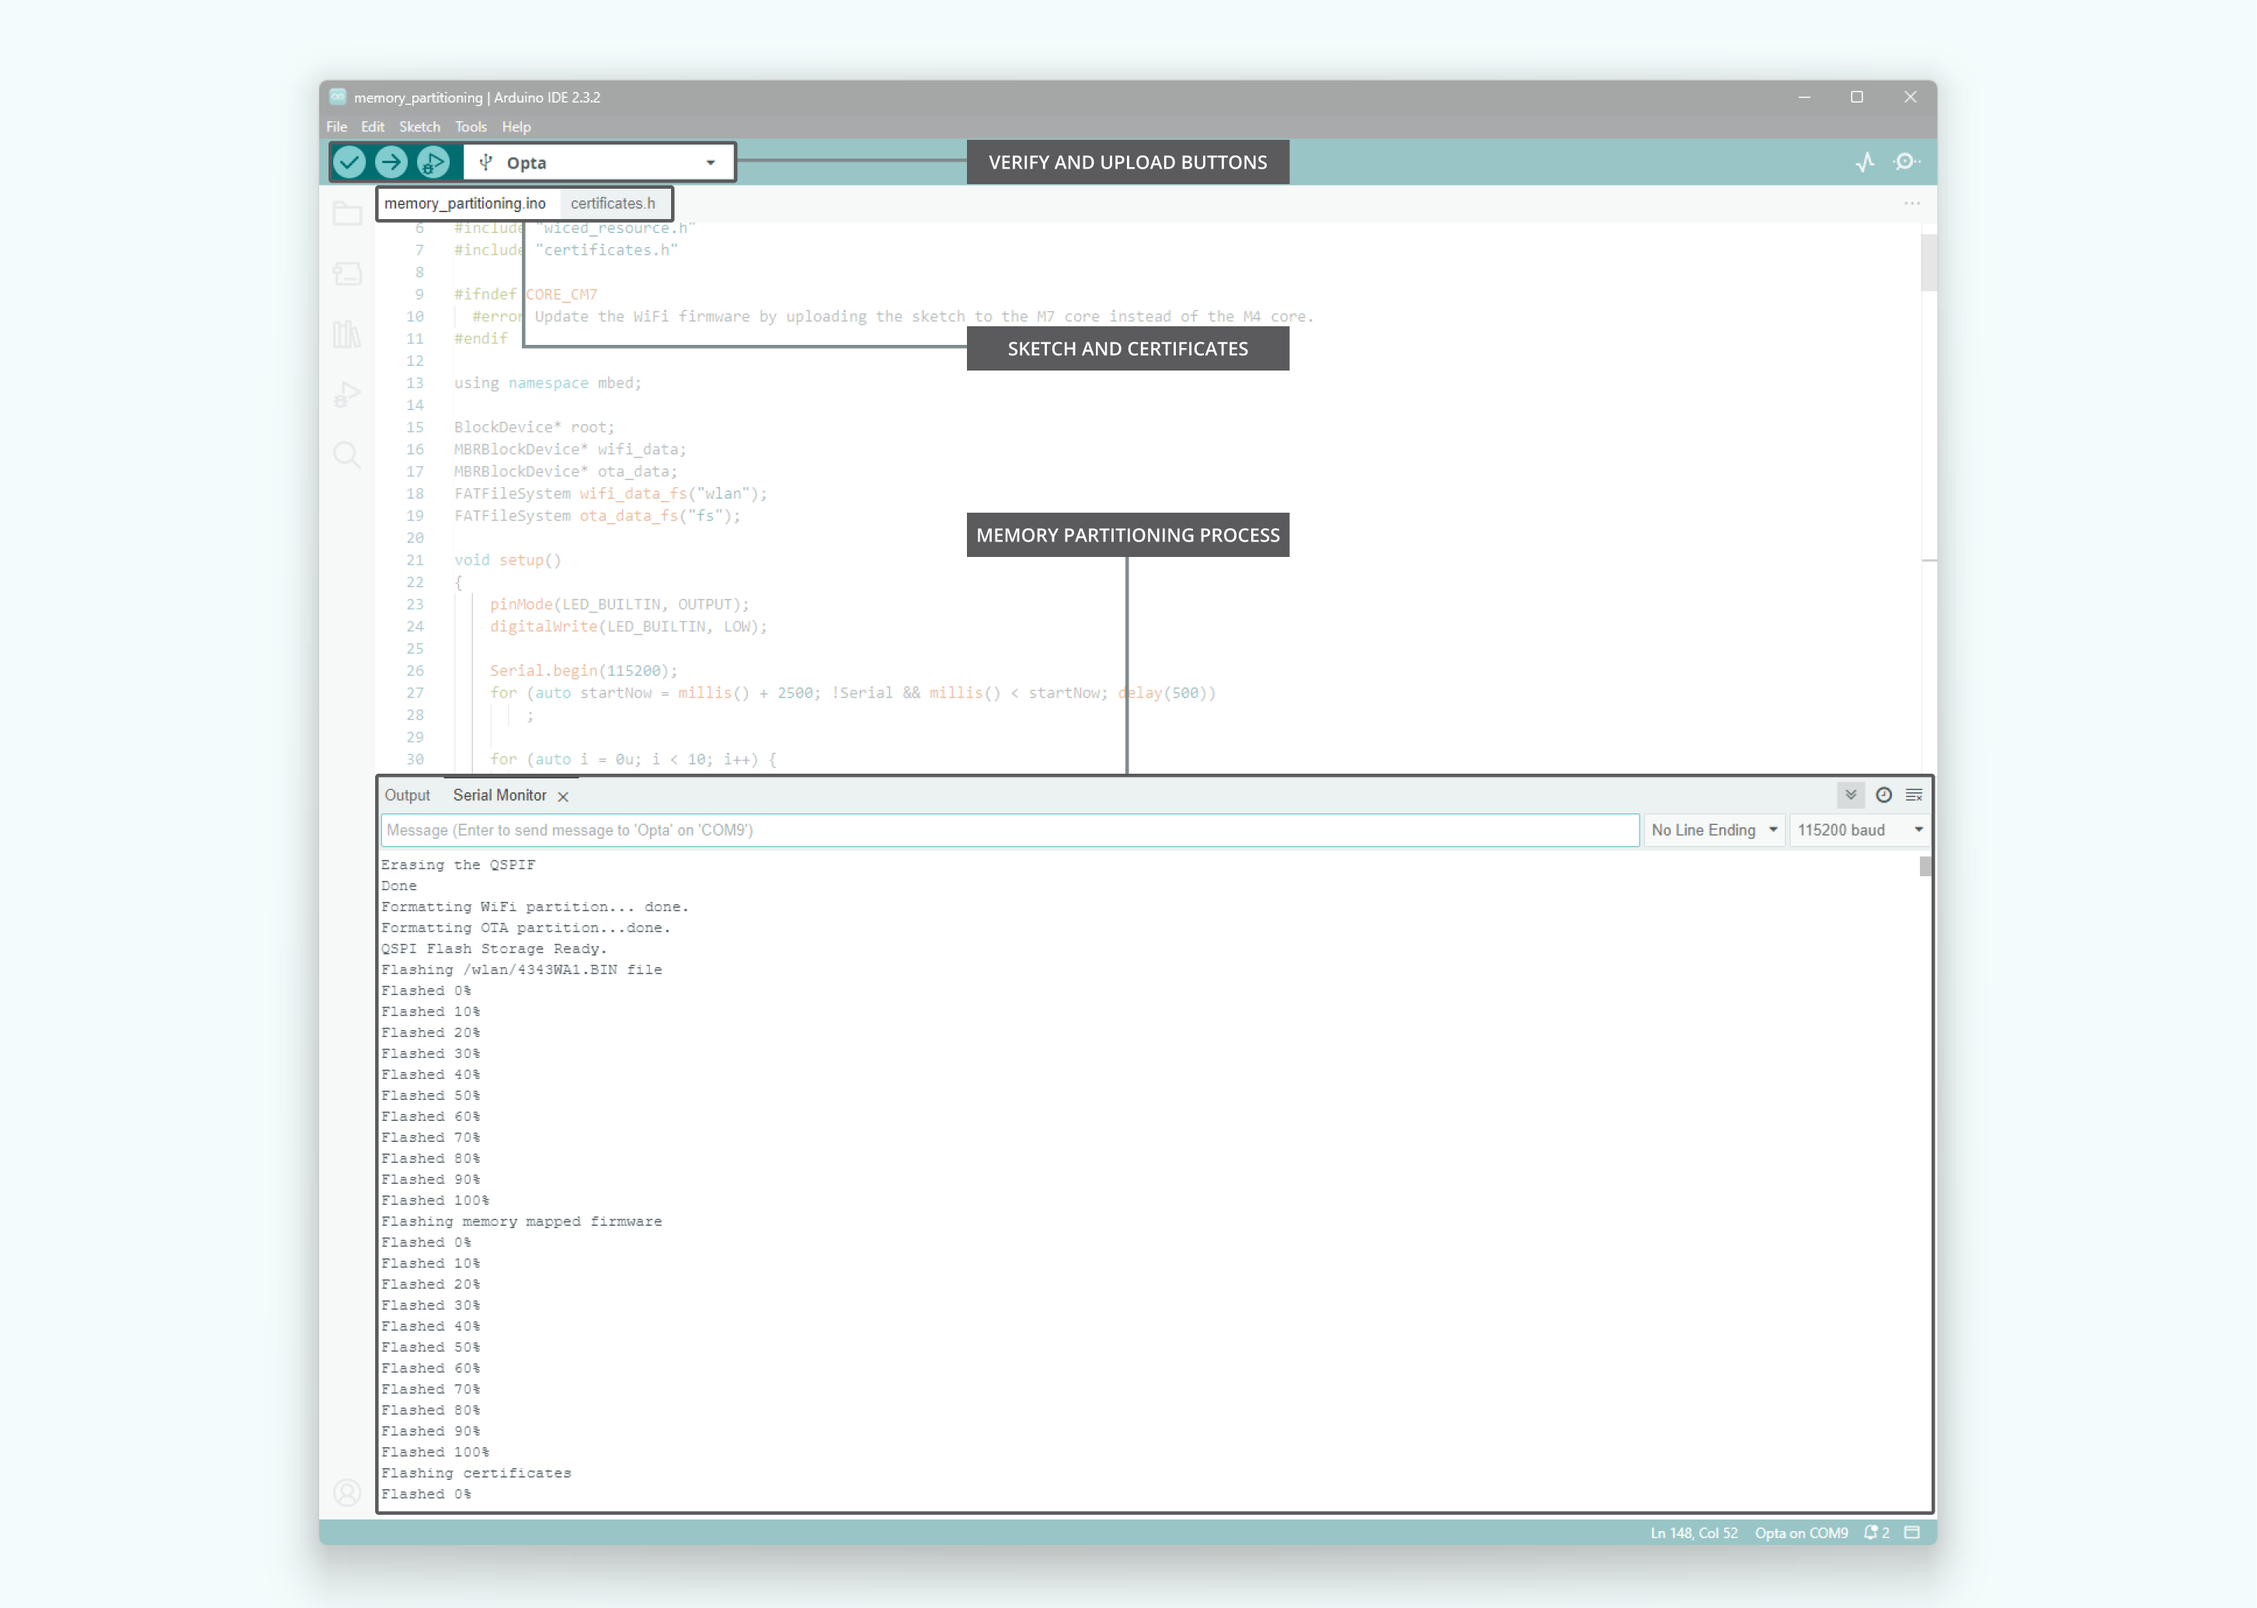
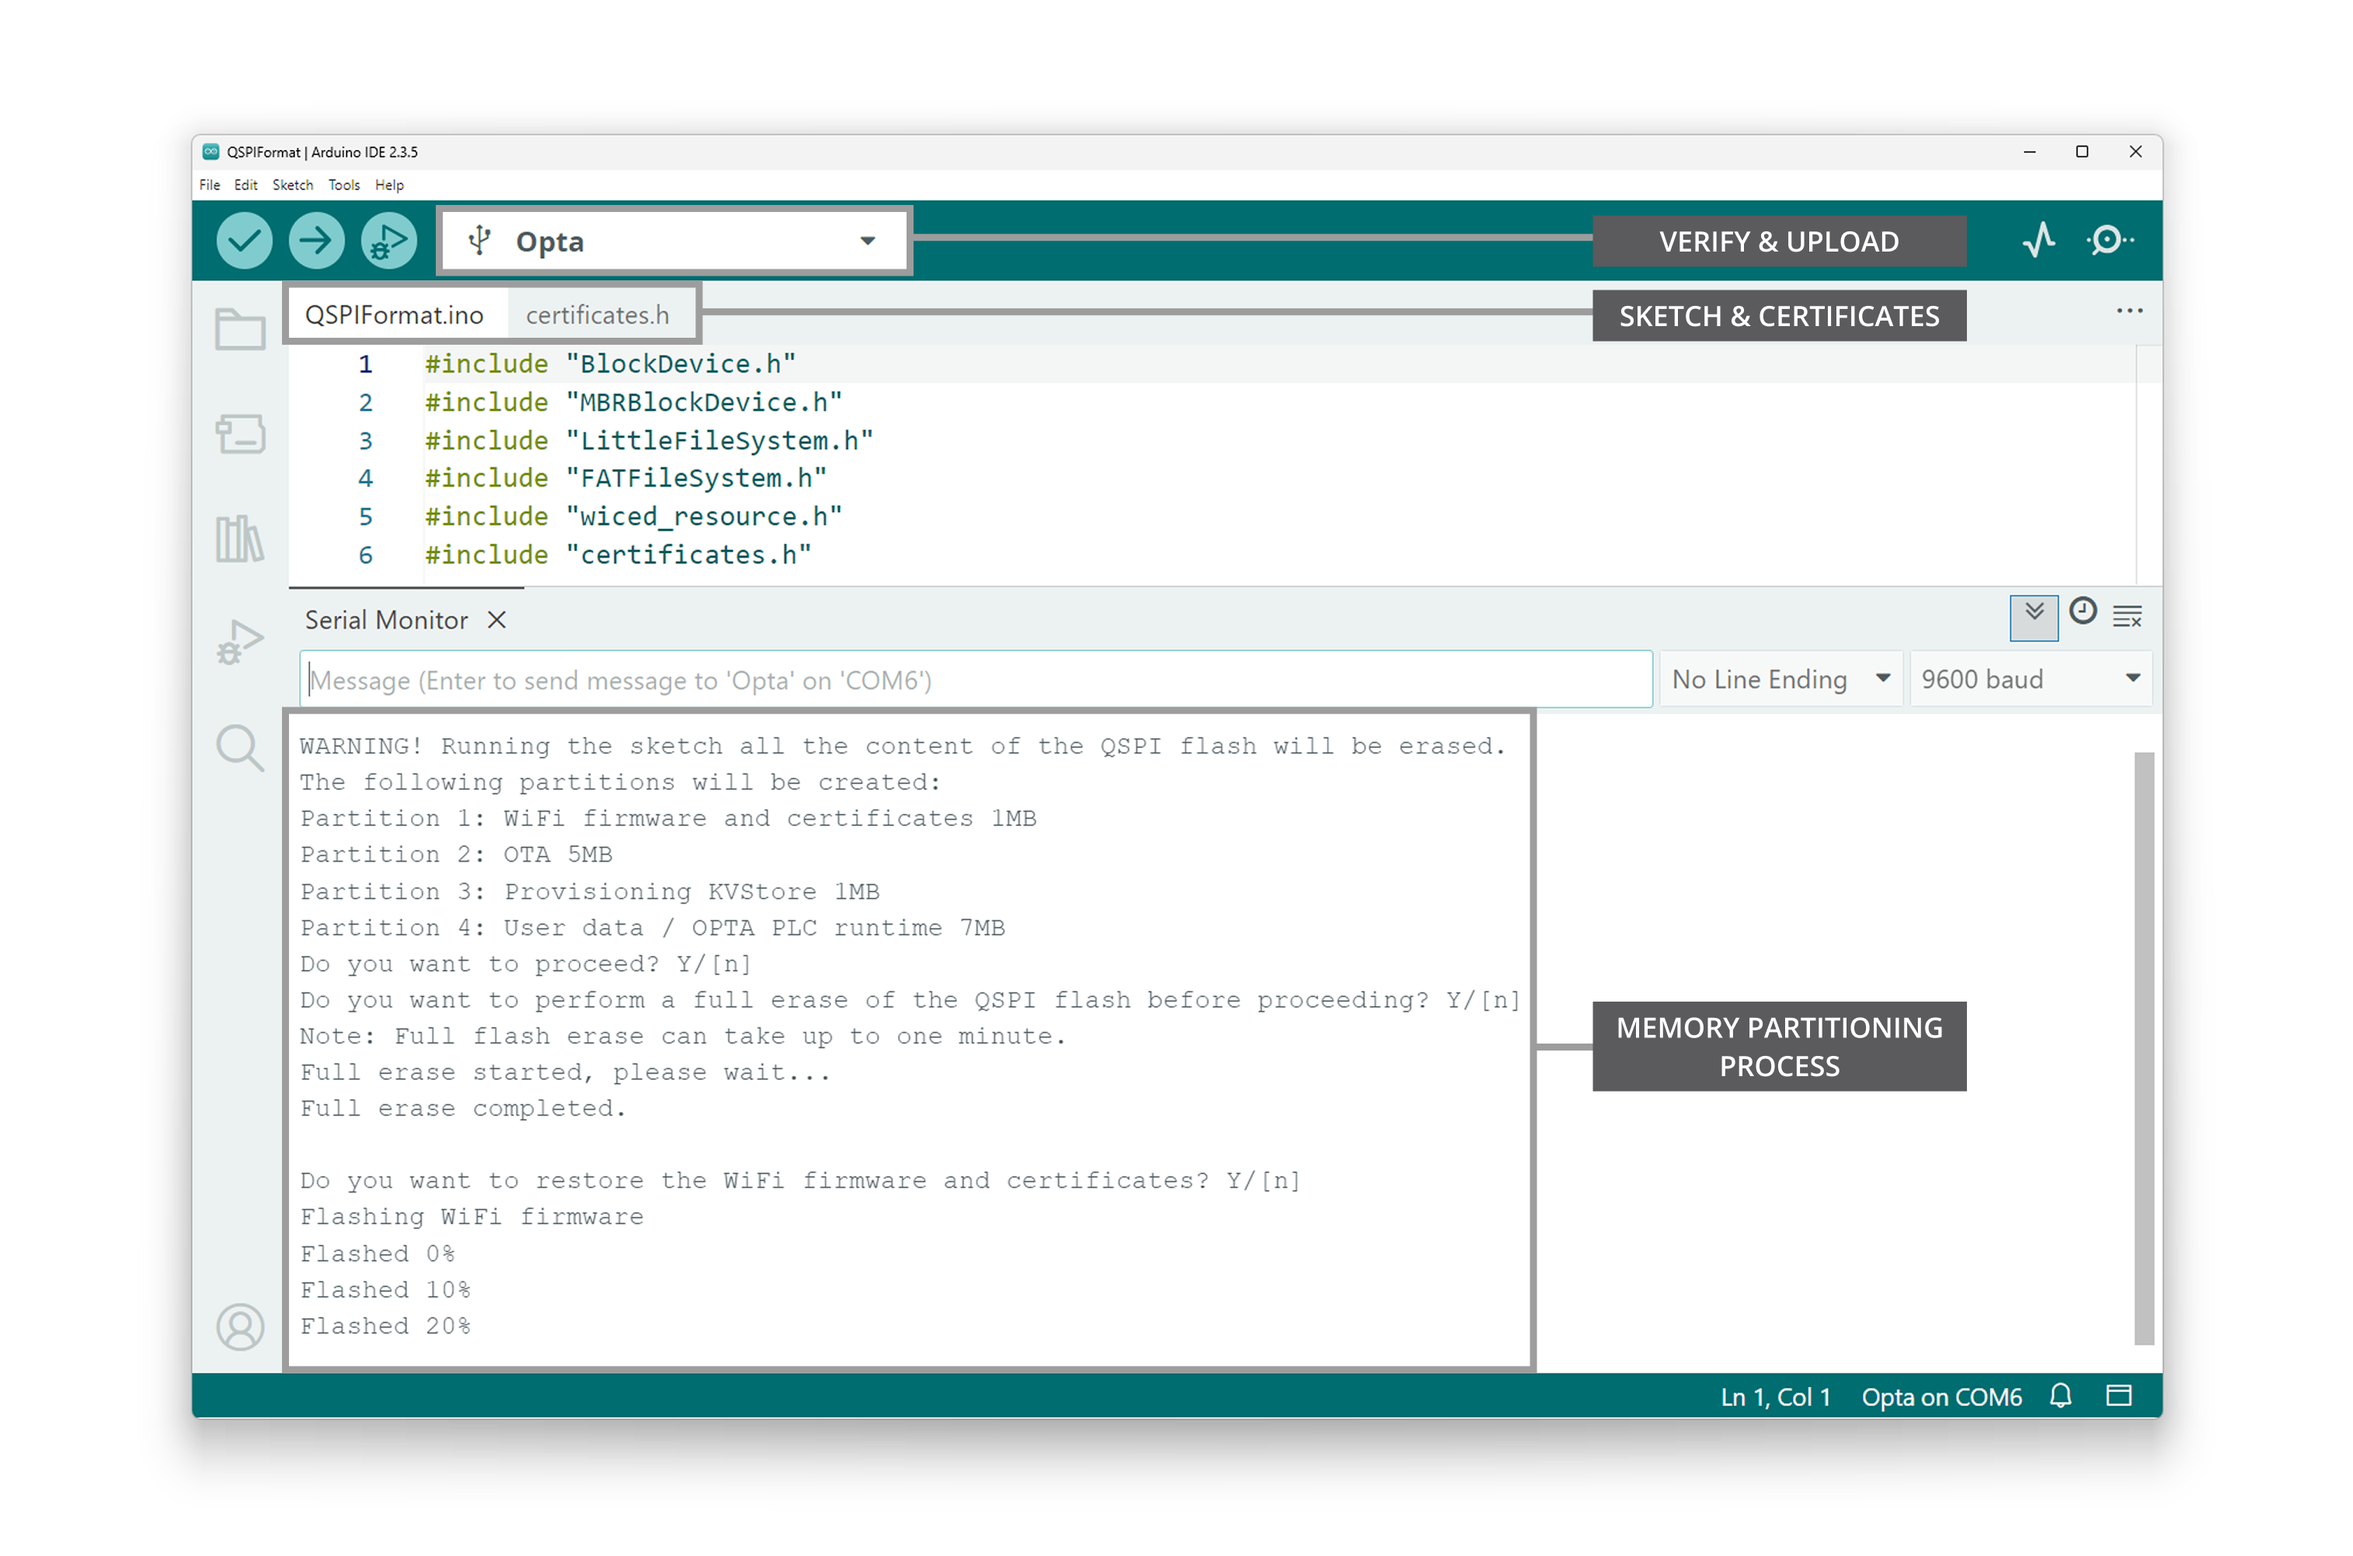
Memory partitioning tutorial documentation update

diff --git a/content/hardware/07.opta/opta-family/opta/tutorials/08.memory-partitioning/content.md b/content/hardware/07.opta/opta-family/opta/tutorials/08.memory-partitioning/content.md
@@ -318,35 +318,42 @@ void loop() {
 }
 ```
 
-***If you encounter an error while in the compilation process, __please remember to have both script and certificate files in the same folder__. The certificate file is crucial for the memory partitioning process. The complete sketch and the certificate files can be downloaded [__here__](assets/memory_partitioning.zip).***
-
 The sketch shown above performs four main tasks:
 
 1. **Initialize and erase the QSPI Flash memory**: The sketch initializes the QSPI Flash memory of the Opta™ and erases its content to prepare the memory for new firmware and data. One of the built-in LEDs of the device is used to indicate the progress of the memory-erasing process.
 
 2. **Create partitions and format them in the QSPI Flash memory**: The sketch creates four partitions in the QSPI Flash memory:
-- Partition 1: WiFi firmware and certificates (1MB)
-- Partition 2: OTA (5MB)
+- Partition 1: Wi-Fi firmware and certificates (1MB)
+- Partition 2: OTA (Over-The-Air) (5MB)
 - Partition 3: Provisioning KVStore (1MB)
 - Partition 4: User data / OPTA PLC runtime (7MB)
 
 3. **Write Wi-Fi firmware and certificate data**: The sketch writes the Wi-Fi firmware and certificate data to the appropriate partitions in the QSPI Flash memory and flashes the memory-mapped Wi-Fi firmware and certificates.
 
-4. **Format the user data partition:** The sketch prompts you to choose between **LittleFS** or **FatFS** for formatting the user data partition. When planning to use the Opta™ with the PLC IDE, you should select **"n" (No)** when prompted with user data partition format to use. This will use *FatFS* instead, which is required for proper compatibility with the PLC runtime.
+4. **Format the user data partition:** The sketch prompts you to choose between **LittleFS** or **FatFS** for formatting the user data partition. When using the Opta™ with the PLC IDE, you should select **`n` (No)** when prompted to choose user data partition format. This will use **FatFS** instead, which is required for proper compatibility with the PLC runtime.
 
 ***As indicated in the sketch output, __LittleFS__ is not supported by the OPTA PLC runtime.***
 
-4. **Display progress in the Arduino IDE Serial Monitor**: The sketch provides a visual indication of the progress of the flashing process using one of the built-in LEDs of the Opta™ and displays messages through the Arduino IDE Serial Monitor to inform the user about the current status of the flashing process.
+5. **Display progress in the Arduino IDE Serial Monitor**: The sketch provides a visual indication of the progress of the flashing process using one of the built-in LEDs of the Opta™ and displays messages through the Arduino IDE Serial Monitor to inform the user about the current status of the flashing process.
 
 To upload the code, click the **Verify** button to compile the sketch and check for errors. Then, click the **Upload** button to program the device with the sketch. If two COM ports are available, which might happen after using the PLC IDE to program the device, select the COM port with the lower number.
 
 ![Uploading a sketch to the Opta™ the Arduino IDE](assets/arduino-ide-2.png)
 
-After a while, you should see information on the progress of the flashing process in the Serial Monitor, as shown in the image below.
+When you run the **QSPIFormat** sketch on your Opta™ device, follow the prompts displayed in the Arduino IDE's Serial Monitor:
+
+1. You'll first see a warning that all content of the QSPI flash will be erased, as well as information about the partitions that will be created.
+2. The Serial Monitor will ask, `Do you want to proceed? Y/[n]`, type **`Y`** and press *Enter* to continue.
+3. Next, it will ask, `Do you want to perform a full erase of the QSPI flash before proceeding? Y/[n]`. Please answer according to your needs.
+4. The system will then erase the flash memory and show progress indicators for the Wi-Fi firmware, certificates and memory mapped Wi-Fi firmware.
+
+At the end of the memory partitioning process, you'll be prompted if you want to use **LittleFS** to format user data partition.
 
 ![Memory partitioning results of the Opta™ as shown in the Arduino IDE's Serial Monitor](assets/arduino-ide-3.png)
 
-If everything went as intended, you should see a brief success message in the Serial Monitor. Now, we are ready to start using the full capabilities of the Opta™ with the Arduino IDE. The following clip shows briefly what to expect of complete memory partitioning process:
+When planning to use the Opta™ with the PLC IDE, you must enter **`n`** to format the user data partition with **FatFS**. This is required for proper compatibility with the PLC runtime. If you need to use **LittleFS** to format the user data partition, please enter **`Y`**.
+
+You should see a brief success message in the Serial Monitor if everything went as intended. Your Opta™ device should now be properly partitioned and formatted, making it ready for use. The process typically takes a few minutes to complete, with progress indicators keeping you informed. The following clip shows the complete memory partitioning process from start to finish:
 
 ![Memory partitioning process of the Opta™](assets/qspi_format_memPartitioning.gif)
 
@@ -603,15 +610,13 @@ void loop() {
 }
 ```
 
-***If you encounter an error during the compilation process, __please ensure both the script and certificate files are in the same folder__. The certificate file is crucial for the memory partitioning process. The complete sketch and the certificate files can be downloaded [here](assets/memory_partitioning.zip).***
+Once the memory partition code is uploaded, follow the instructions and wait for the process to finish. The upload target for the Portenta Machine Control is `Arduino Portenta H7`, which will be automatically detected by the Arduino IDE.
 
-Once the memory partition code is uploaded, wait for the process to finish. The upload target for the Portenta Machine Control is `Arduino Portenta H7`, which will be automatically detected by the Arduino IDE.
+The Arduino IDE's Serial Monitor should display memory partition process and results similar to those of the Opta™.
 
-The Arduino IDE's Serial Monitor should display memory partition results similar to those of the Opta™.
+![Memory partitioning results of the Portenta Machine Control as shown in the Arduino IDE's Serial Monitor](assets/arduino-ide-4.gif)
 
-![Memory partitioning results of the Portenta Machine Control as shown in the Arduino IDE's Serial Monitor](assets/arduino-ide-4.png)
-
-After this, you will be ready to use the full functionalities of the Portenta Machine Control with the Arduino IDE.
+After this, you will be ready to use the full functionalities of the Portenta Machine Control.
 
 ## Conclusion
 
